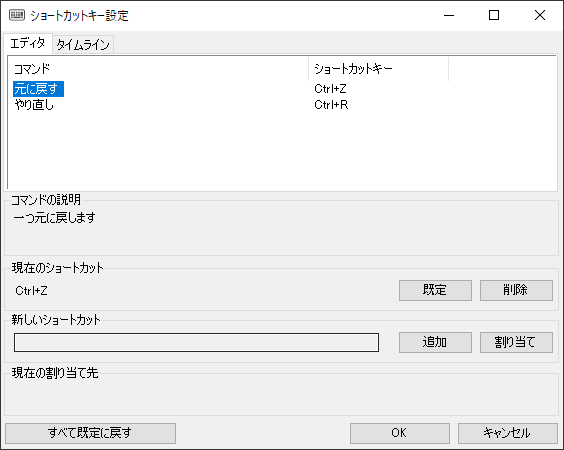
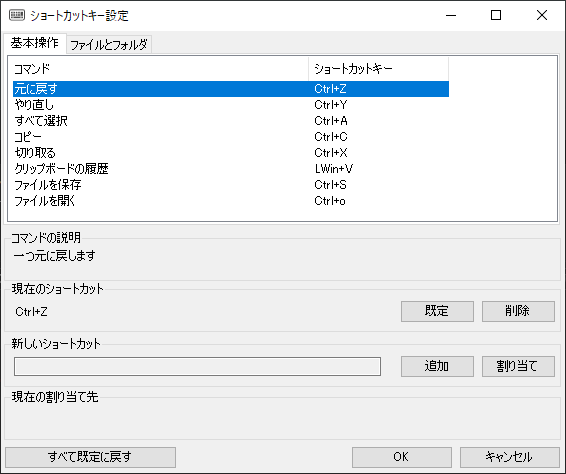
README の更新

diff --git a/README.md b/README.md
@@ -1,3 +1,69 @@
-# shortcut-key-editor-cs
+# Keyboard Shortcuts Editor
+
+generic shortcut editing form.
 
 ![Screenshot](https://raw.githubusercontent.com/wertrain/shortcut-key-editor-cs/master/screenshot.png)
+
+## Editor layout file (example)
+
+```xml
+<?xml version="1.0" encoding="utf-8"?>
+<layout>
+  <tab label="基本操作" id="basic">
+    <keyset label="元に戻す" id="undo" description="一つ元に戻します">Ctrl+Z</keyset>
+    <keyset label="やり直し" id="redo">Ctrl+Y</keyset>
+    <keyset label="すべて選択" id="select_all">Ctrl+A</keyset>
+    <keyset label="コピー" id="copy">Ctrl+C</keyset>
+    <keyset label="切り取る" id="cut">Ctrl+X</keyset>
+    <keyset label="クリップボードの履歴" id="clipboard">LWin+V</keyset>
+    <keyset label="ファイルを保存" id="save">Ctrl+S</keyset>
+    <keyset label="ファイルを開く" id="open">Ctrl+o</keyset>
+  </tab>
+  <tab label="ファイルとフォルダ" id="file_and_folder">
+    <keyset label="すべて選択" id="select_all">Ctrl+A</keyset>
+    <keyset label="コピー" id="copy">Ctrl+C</keyset>
+    <keyset label="移動" id="move">Ctrl+X</keyset>
+  </tab>
+</layout>
+```
+
+## Output settings file (example)
+
+```xml
+<?xml version="1.0" encoding="utf-8"?>
+<shortcutkeys>
+	<shortcutkey id="basic@undo">
+		<key>Ctrl+Z</key>
+	</shortcutkey>
+	<shortcutkey id="basic@redo">
+		<key>Ctrl+Y</key>
+	</shortcutkey>
+	<shortcutkey id="basic@select_all">
+		<key>Ctrl+A</key>
+	</shortcutkey>
+	<shortcutkey id="basic@copy">
+		<key>Ctrl+C</key>
+	</shortcutkey>
+	<shortcutkey id="basic@cut">
+		<key>Ctrl+X</key>
+	</shortcutkey>
+	<shortcutkey id="basic@clipboard">
+		<key>LWin+V</key>
+	</shortcutkey>
+	<shortcutkey id="basic@save">
+		<key>Ctrl+S</key>
+	</shortcutkey>
+	<shortcutkey id="basic@open">
+		<key>Ctrl+o</key>
+	</shortcutkey>
+	<shortcutkey id="file_and_folder@select_all">
+		<key>Ctrl+A</key>
+	</shortcutkey>
+	<shortcutkey id="file_and_folder@copy">
+		<key>Ctrl+C</key>
+	</shortcutkey>
+	<shortcutkey id="file_and_folder@move">
+		<key>Ctrl+X</key>
+	</shortcutkey>
+</shortcutkeys>
+```
